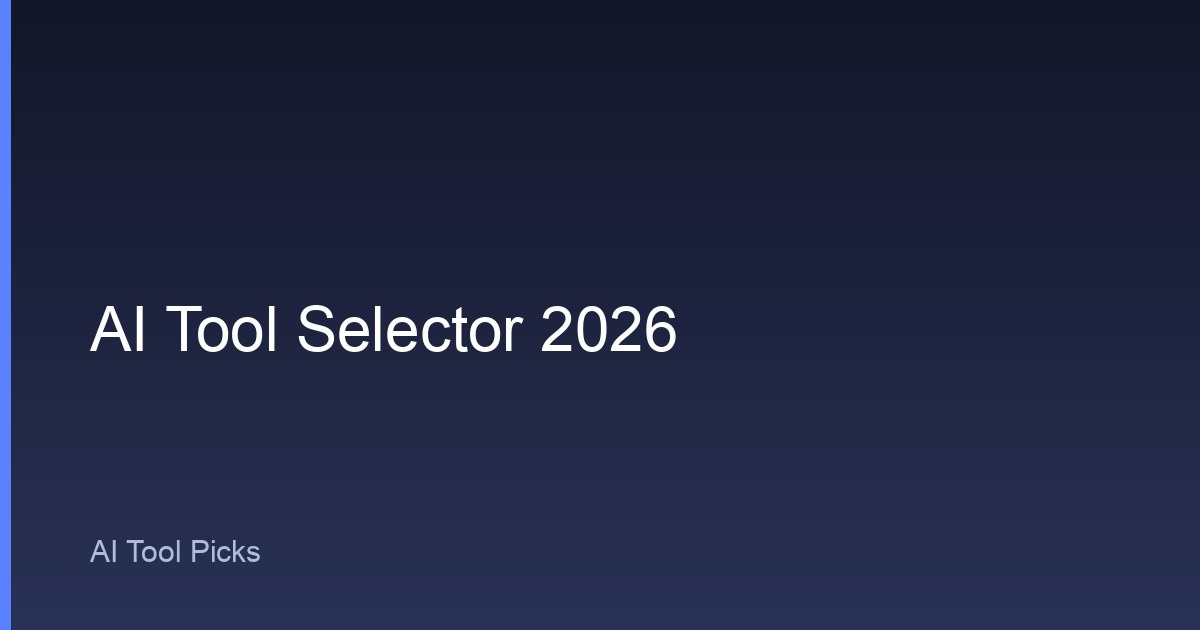
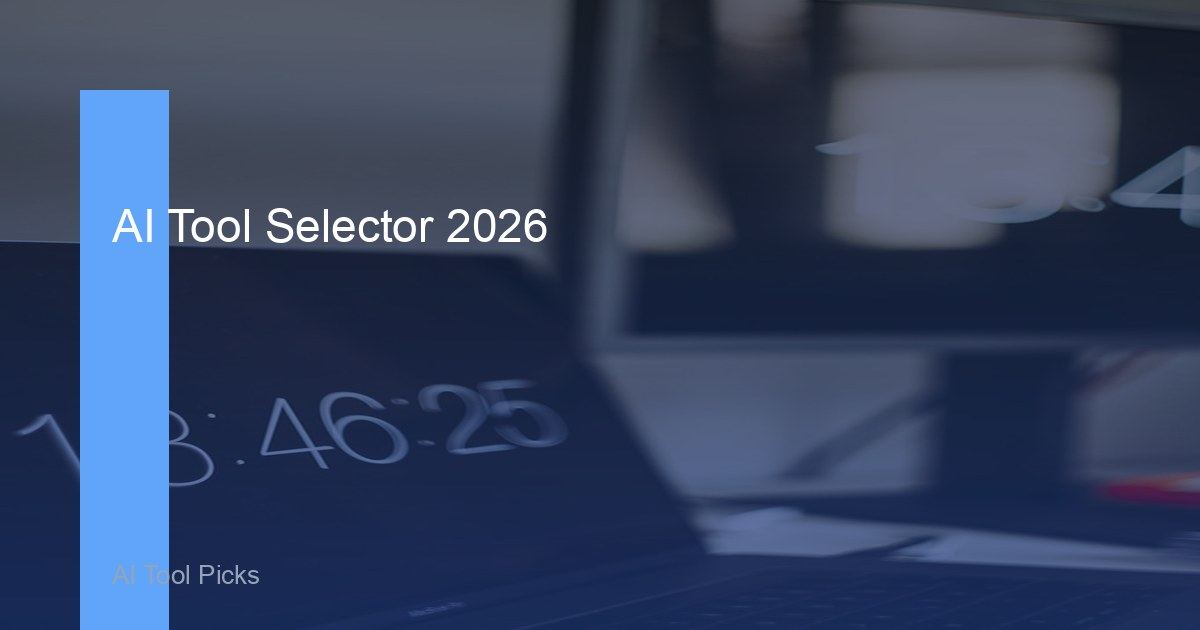
aitool: 评测文+选型页配图改真实CC0场景照(落实图片铁律) + 新增tool-selector交互选型页 + 修正中文页lang

diff --git a/posts/aiapply-review-2026.html b/posts/aiapply-review-2026.html
@@ -142,7 +142,8 @@
 <main>
 <article>
   <div class="post-meta"><span class="badge">Review</span><time datetime="2026-07-31">July 31, 2026</time> &middot; <span>9 min read</span></div>
-  <h1>AIApply Review 2026: An AI Co-Pilot for the Whole Job Hunt</h1>
+    <img class="post-hero" src="../images/og-aiapply-review-2026.jpg" alt="aiapply-review-2026">
+<h1>AIApply Review 2026: An AI Co-Pilot for the Whole Job Hunt</h1>
   <p class="lead">Applying to jobs is a numbers game that quickly turns into a soul-crushing chore: rewrite the resume for every posting, write yet another cover letter, then track which application is where. <strong>AIApply</strong> is an AI job-search co-pilot that tries to automate most of that loop &mdash; from a tailored resume to an auto-submitted application.</p>
 
   <div class="verdict-box">

diff --git a/posts/aiapply-review-2026-zh.html b/posts/aiapply-review-2026-zh.html
@@ -142,7 +142,8 @@
 <main>
 <article>
   <div class="post-meta"><span class="badge">评测</span><time datetime="2026-07-31">2026年7月31日</time> &middot; <span>约 9 分钟</span></div>
-  <h1>AIApply 2026 评测：把整个求职流程交给 AI 副驾驶</h1>
+    <img class="post-hero" src="../images/og-aiapply-review-2026.jpg" alt="aiapply-review-2026">
+<h1>AIApply 2026 评测：把整个求职流程交给 AI 副驾驶</h1>
   <p class="lead">求职是一场消耗战：每个岗位都要重写简历、再写一封求职信，还要记住投到了哪里。<strong>AIApply</strong> 是一款 AI 求职副驾驶，试图把这条链路的大部分环节自动化——从定制简历到代你投递申请。</p>
 
   <div class="verdict-box">

diff --git a/posts/mockey-review-2026.html b/posts/mockey-review-2026.html
@@ -142,7 +142,8 @@
 <main>
 <article>
   <div class="post-meta"><span class="badge">Review</span><time datetime="2026-07-31">July 31, 2026</time> &middot; <span>8 min read</span></div>
-  <h1>Mockey.ai Review 2026: Free AI Mockups and Product Photos</h1>
+    <img class="post-hero" src="../images/og-mockey-review-2026.jpg" alt="mockey-review-2026">
+<h1>Mockey.ai Review 2026: Free AI Mockups and Product Photos</h1>
   <p class="lead">If you sell on Etsy, print-on-demand, or Shopify, you know the pain of mockups: Photoshop templates, awkward edits, and stock photos that cost a fortune. <strong>Mockey.ai</strong> is a free, browser-based AI mockup and product-photo generator that skips Photoshop entirely.</p>
 
   <div class="verdict-box">

diff --git a/posts/mockey-review-2026-zh.html b/posts/mockey-review-2026-zh.html
@@ -142,7 +142,8 @@
 <main>
 <article>
   <div class="post-meta"><span class="badge">评测</span><time datetime="2026-07-31">2026年7月31日</time> &middot; <span>约 8 分钟</span></div>
-  <h1>Mockey.ai 2026 评测：免费 AI 模型图与产品图</h1>
+    <img class="post-hero" src="../images/og-mockey-review-2026.jpg" alt="mockey-review-2026">
+<h1>Mockey.ai 2026 评测：免费 AI 模型图与产品图</h1>
   <p class="lead">如果你在 Etsy、按需印刷或 Shopify 上卖货，一定懂模型图的痛：Photoshop 模板、别扭的修图、贵得离谱的素材图。<strong>Mockey.ai</strong> 是一款免费的浏览器端 AI 模型图与产品图生成器，完全不需要 Photoshop。</p>
 
   <div class="verdict-box">

diff --git a/index-zh.html b/index-zh.html
@@ -7,7 +7,7 @@
   2. 数字必须有来源：价格、流量、收入等数字必须标注来源/日期，或用"约/大约/据称"。
   3. 时效性标注：评测/数据类内容必须标注"截至 [月份]"，避免过时后变成假信息。
 -->
-<html lang="en" data-zh-url="index-zh.html">
+<html lang="zh-CN" data-zh-url="index-zh.html">
 <head>
     <meta charset="UTF-8">
     <meta name="author" content="https://www.amazon.com/author/gagewhitlock?tag=sun490619-20">

diff --git a/_tmp_ogsrc/gen_og_today.py b/_tmp_ogsrc/gen_og_today.py
@@ -1,0 +1,66 @@
+#!/usr/bin/env python3
+"""标准合规 og 图生成器（重建版）。
+
+规则来源：images/IMAGES-MANIFEST.md 标准模板（案例13/30 用户铁律）。
+- 禁止纯渐变、禁止 AI 生成图；一律用真实 CC0 场景照（Openverse/Wikimedia/Flickr cc0）。
+- 真实照 LANCZOS 铺满 → 深蓝渐变遮罩 (15,23,42)->(30,58,138) alpha150
+  → 左侧竖条 rect[80,90,168,630] 填充 (96,165,250) → 白色标题 46px x=112 y=200 行距54 wrap30 最多5行
+  → 底部 (112,560) 品牌标 "AI Tool Picks" 26px (148,163,184) → JPEG q88。
+- 验收：唯一色 4000-6000、均亮 60-85、标准差 30-36、竖条实测≈(99,164,246)。
+
+用法：python3 gen_og_today.py <out.jpg> <scene_cc0_url> "<title>"
+"""
+import sys, io, textwrap, urllib.request, statistics
+from PIL import Image, ImageDraw, ImageFont
+
+W, H = 1200, 630
+ARIAL = "/System/Library/Fonts/Supplemental/Arial.ttf"
+TITLE = ImageFont.truetype(ARIAL, 46)
+BRAND = ImageFont.truetype(ARIAL, 26)
+
+
+def download(url):
+    req = urllib.request.Request(url, headers={"User-Agent": "Mozilla/5.0"})
+    return Image.open(io.BytesIO(urllib.request.urlopen(req, timeout=40).read())).convert("RGB")
+
+
+def make_og(out, scene_url, title):
+    base = download(scene_url).resize((W, H), Image.LANCZOS)
+    overlay = Image.new("RGBA", (W, H))
+    d = ImageDraw.Draw(overlay)
+    for y in range(H):
+        t = y / H
+        r = int(15 + (30 - 15) * t)
+        g = int(23 + (58 - 23) * t)
+        b = int(42 + (138 - 42) * t)
+        d.line([(0, y), (W, y)], fill=(r, g, b, 150))
+    img = Image.alpha_composite(base.convert("RGBA"), overlay)
+    d = ImageDraw.Draw(img)
+    d.rectangle([80, 90, 168, 630], fill=(96, 165, 250))
+    lines = textwrap.wrap(title, 30)[:5]
+    y = 200
+    for ln in lines:
+        d.text((112, y), ln, font=TITLE, fill=(255, 255, 255))
+        y += 54
+    d.text((112, 560), "AI Tool Picks", font=BRAND, fill=(148, 163, 184))
+    img.convert("RGB").save(out, "JPEG", quality=88)
+    return img
+
+
+def verify(path):
+    im_full = Image.open(path).convert("RGB")
+    bar = im_full.getpixel((110, 300))  # 竖条在原图坐标
+    im = im_full.resize((300, 158))
+    px = list(im.getdata())
+    uniq = len(set(px))
+    lum = [0.299 * r + 0.587 * g + 0.114 * b for r, g, b in px]
+    mean = sum(lum) / len(lum)
+    sd = (sum((x - mean) ** 2 for x in lum) / len(lum)) ** 0.5
+    print("  唯一色=%d 均亮=%.1f 标准差=%.1f 竖条色=%s" % (uniq, mean, sd, bar))
+
+
+if __name__ == "__main__":
+    out, scene, title = sys.argv[1], sys.argv[2], sys.argv[3]
+    make_og(out, scene, title)
+    print("生成:", out)
+    verify(out)

diff --git a/images/IMAGES-MANIFEST.md b/images/IMAGES-MANIFEST.md
@@ -9,6 +9,8 @@
 | og-best-ai-tools-for-solopreneurs-2026.jpg | 独立创业者评测文 og/hero/封面 | https://images.unsplash.com/photo-1517245386807-bb43f82c33c4 (Unsplash, 独处笔记本工作场景) | Unsplash License（免费商用，站点规则 §13.1 允许） |
 | og-taskade-review-2026.jpg | Taskade 评测文 og/hero/封面（en+zh 共用） | https://live.staticflickr.com/697/33286674502_4fa8d4e22f_b.jpg (Openverse/Flickr, 团队会议协作场景) | CC0（Openverse license=cc0 检索） |
 | og-mindmapai-review-2026.jpg | MindMapAI 评测文 og/hero/封面（en+zh 共用） | 真实思维导图照片(Wikimedia Commons: "A Mind Map on ICT and Pedagogy", 作者 MuPaily, CC BY-SA 4.0) → 灰度反相成深色底 + 轻量深蓝品牌遮罩(alpha110) + 左侧竖条 + 标题；线条可见、主题贴合"思维导图" | CC BY-SA 4.0（署名 MuPaily / Wikimedia Commons，免费商用，已记录） |
+| og-aiapply-review-2026.jpg | AIApply 评测文 og/hero/封面（en+zh 共用） | https://live.staticflickr.com/364/20065176482_8b862d0746_b.jpg (Openverse/Flickr, 求职面试场景照, 主题贴合"求职/简历") | CC0（Openverse license=cc0 检索, 作者 edward_rooks） |
+| og-mockey-review-2026.jpg | Mockey.ai 评测文 og/hero/封面（en+zh 共用） | https://live.staticflickr.com/65535/51330631769_0922d85d6e_b.jpg (Openverse/Flickr, 化妆品产品 mockup 场景照, 主题贴合"产品图/mockup 生成器") | CC0（Openverse license=cc0 检索） |
 
 > 说明：以上 og 图均为「真实场景图（Unsplash / Openverse CC0 免费商用）+ 品牌模板叠加（半透明渐变遮罩 alpha150 深蓝 #0f172a→#1e3a8a + 左侧品牌竖条 #60a5fa + 白色标题 46px + AI Tool Picks 标）」，非纯渐变、非 AI 生成图，符合 13.1「og 社交图…非纯渐变、含真实场景图」要求。
 
